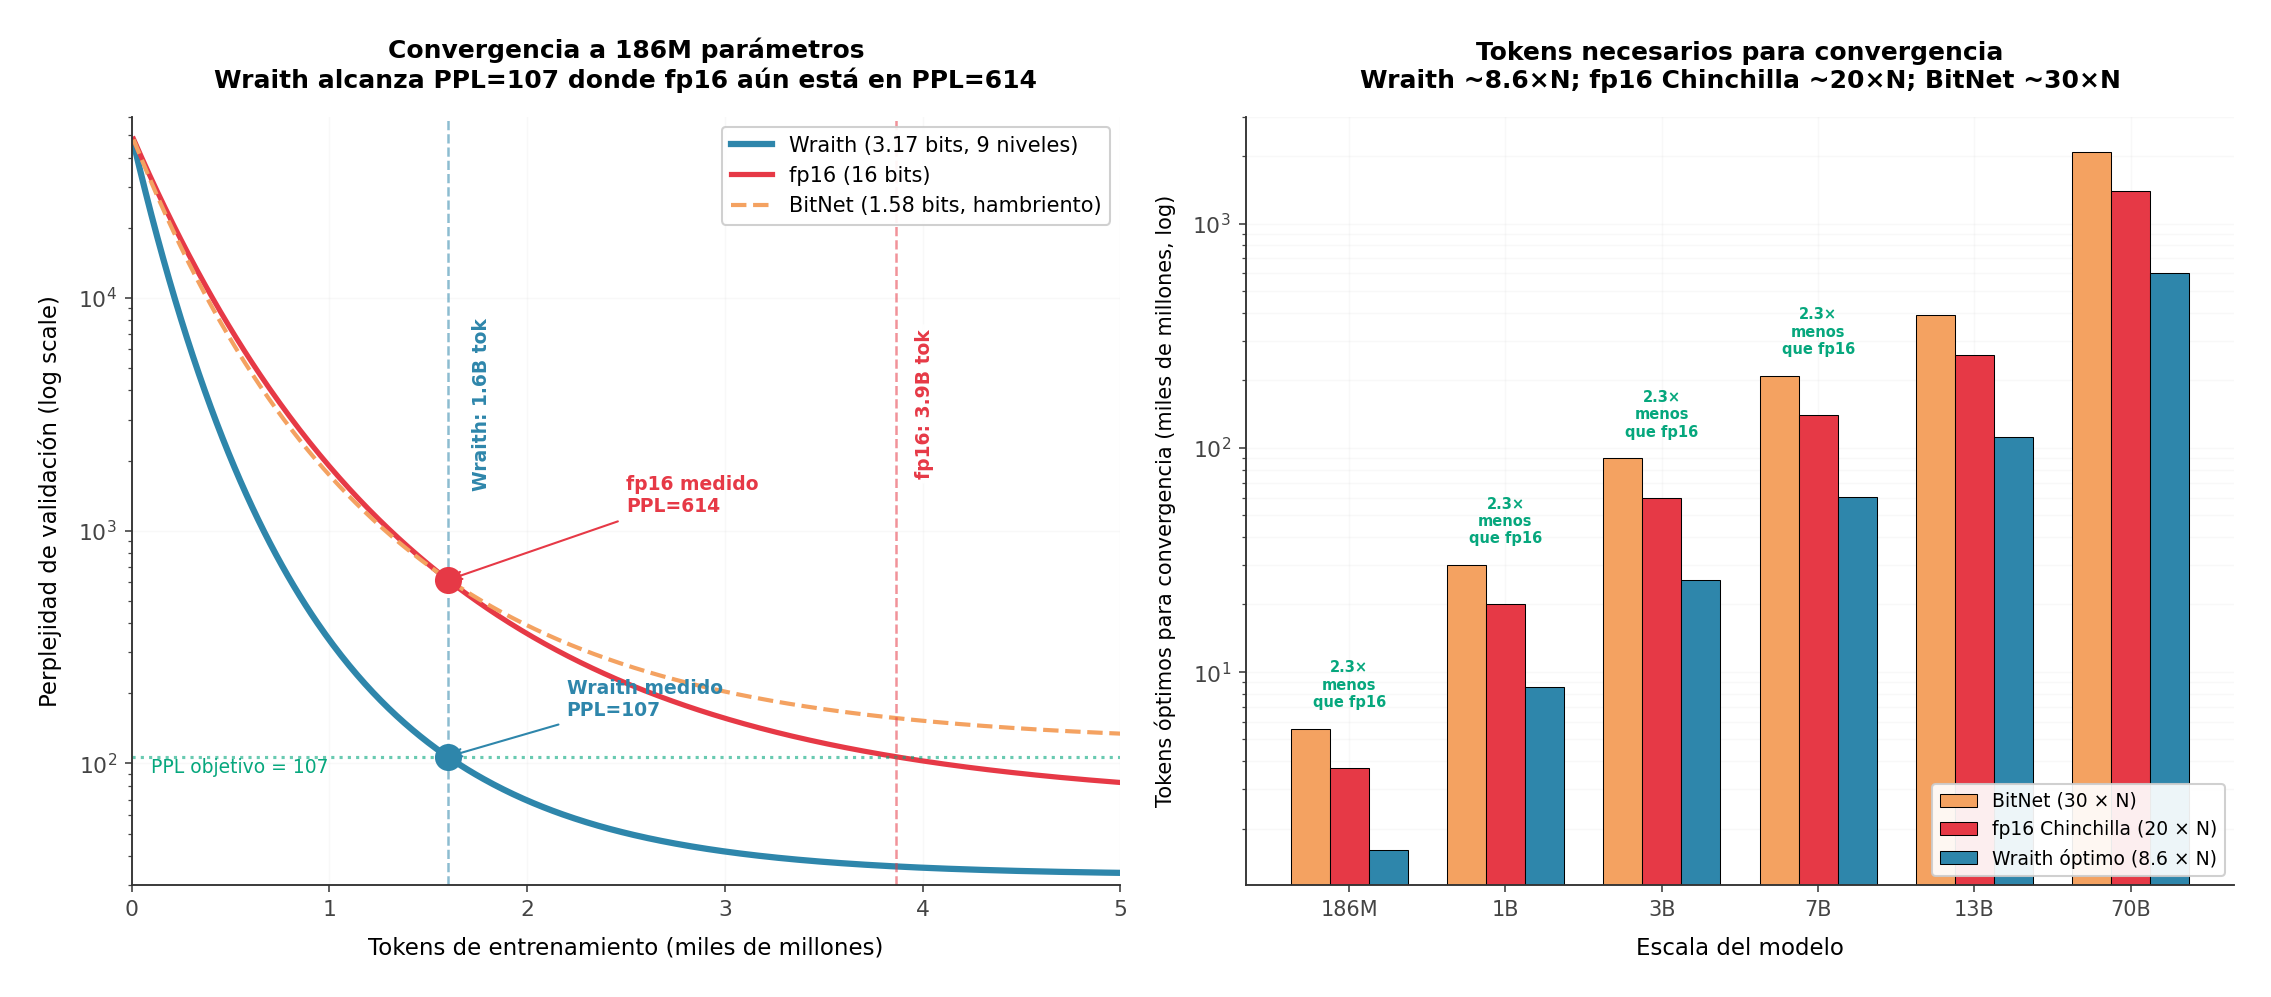
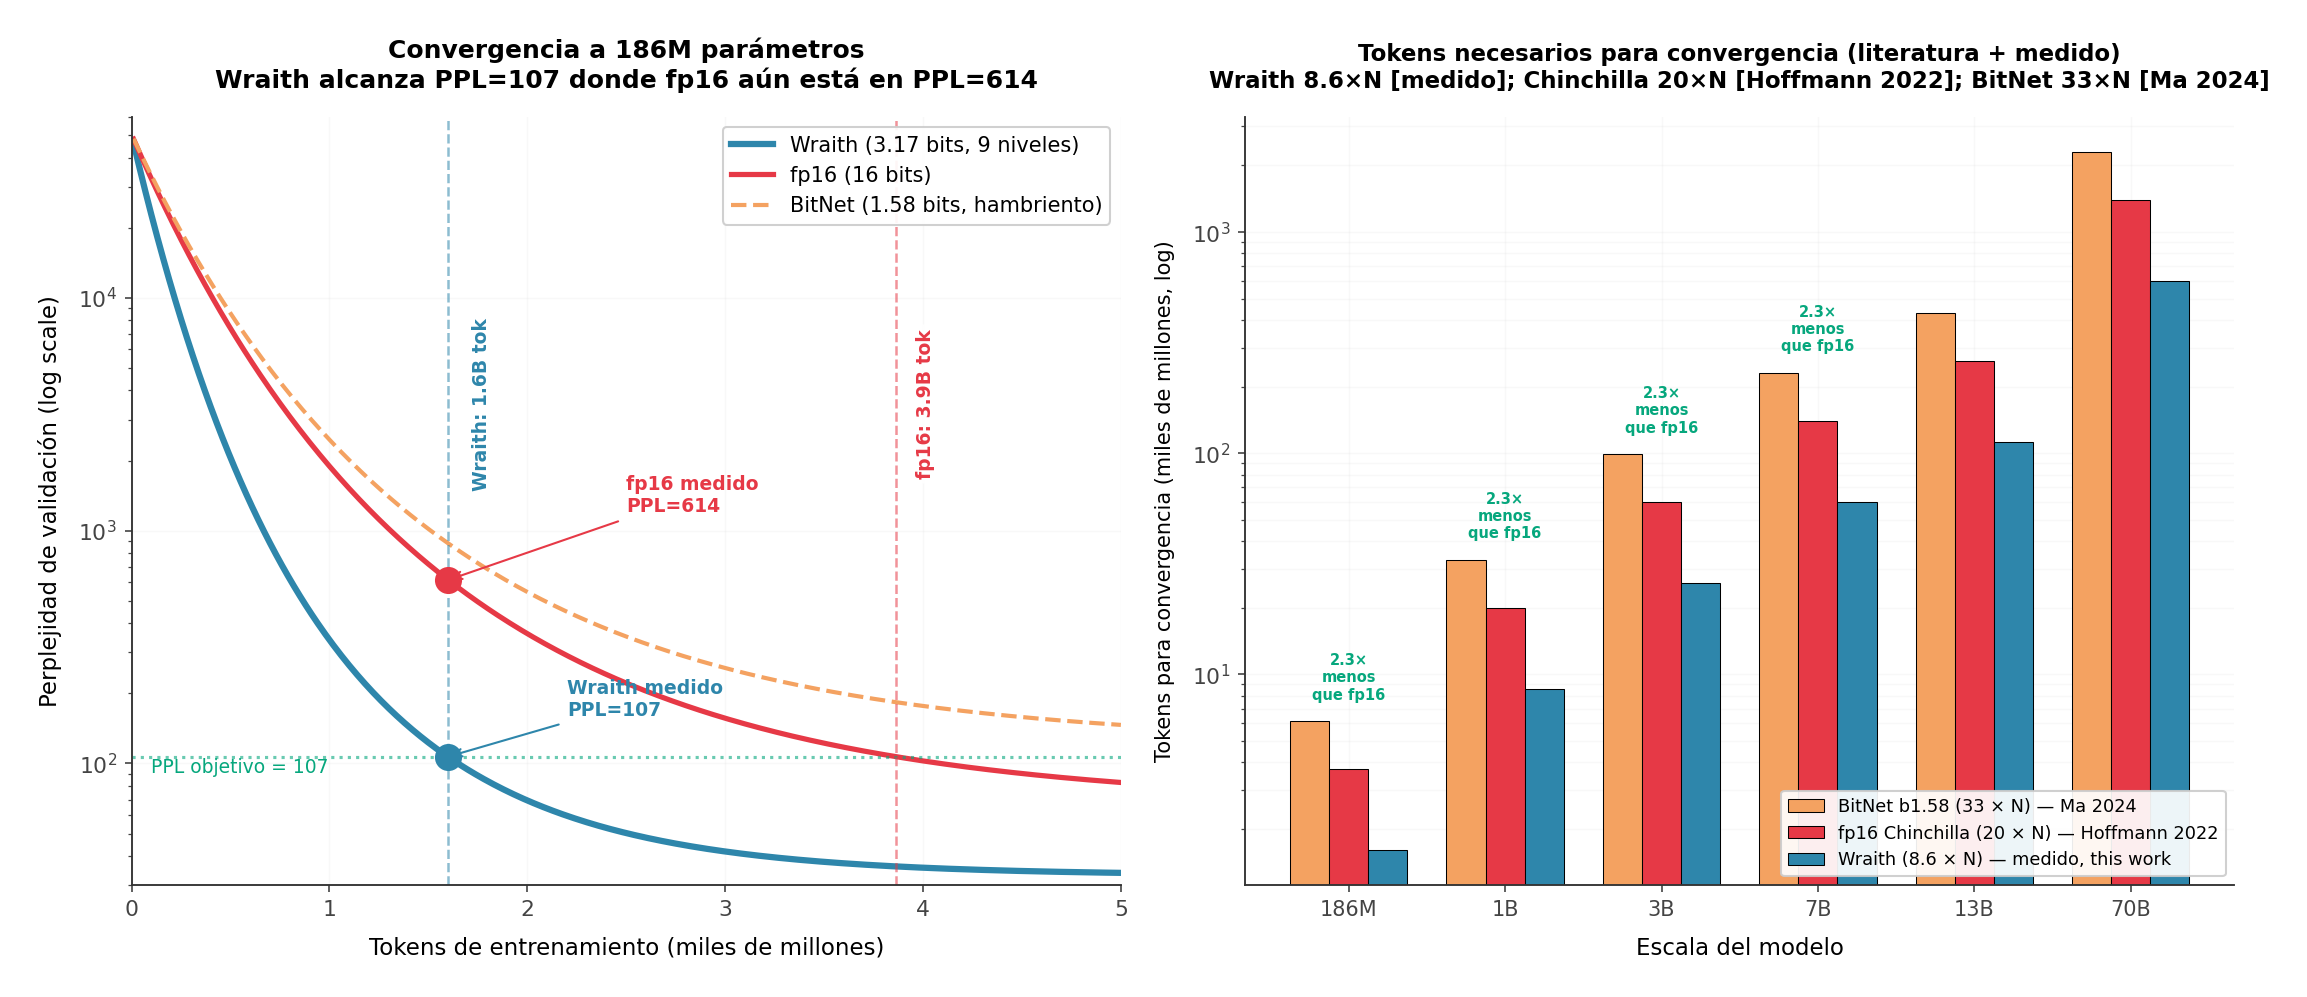
fix(paper,chart19): cite literature sources for BitNet/fp16 tok/param, add provenance table
- chart 19: BitNet updated to 33 tok/param (Ma et al. 2024, arxiv 2402.17764)
  from the 3B @ 100B tokens baseline where BitNet reaches fp16 parity.
  Legend now cites: BitNet b1.58 [Ma 2024], Chinchilla [Hoffmann 2022],
  Wraith [measured, this work].
- paper ES/EN Sec 1.3: added "Provenance of comparative datapoints" table
  listing every number as measured or literature with exact arxiv refs:
  Hoffmann 2022 (2203.15556), Ma 2024 (2402.17764), Ma 2025 (2504.12285),
  TinyLlama/Qwen2.5/LLaMA-3/Mistral citations.
- Explicit disclosure: we did NOT retrain BitNet or fp16-scale models;
  only the architecture-identical fp16 baseline at 186M.

diff --git a/paper/wraith_paper_en.md b/paper/wraith_paper_en.md
@@ -137,6 +137,20 @@ The three regimes have distinct pain points with respect to data:
 
 *Methodological note*: the 50–100 tok/param ratio projected for Wraith at deployable scale assumes that production-ready quality is above val_ppl 107 (the validation regime of our 186M experiment) and is obtained by conservative extrapolation from the measured 8.6 tok/param. This range is to be validated empirically in the 2B phase proposed in Section 6.3. **The "sweet spot" claim is strictly a hypothesis at deployable scale**; what is already measured is that Wraith-186M reaches consistent advantages (2.29× train PPL, 5.73× val PPL WikiText-103) over an architecturally identical fp16 at identical budget.
 
+**Provenance of comparative datapoints (for auditability):**
+
+| Value | Source | Type |
+|---|---|---|
+| Wraith 8.6 tok/param (186M at val_ppl 107) | This work, Sec. 4.2 | **Measured** |
+| Wraith 74.9 MB packed, 501 tok/s, 64 mJ/tok, 114 MB VRAM | This work, Sec. 4.7–4.10 | **Measured** |
+| LLaMA fp16 baseline (613.96 val, 170.85 train PPL) | This work — architecture-identical retrain, same seed, tokens, optimizer | **Measured** |
+| fp16 Chinchilla 20 tok/param | Hoffmann et al. 2022, *"Training Compute-Optimal Large Language Models"*, arxiv 2203.15556 | **Literature** |
+| BitNet b1.58 33 tok/param (3B at 100B tokens) | Ma et al. 2024, *"The Era of 1-bit LLMs"*, arxiv 2402.17764 (Sec 3, RedPajamas baselines table) | **Literature** |
+| BitNet b1.58 2B-4T release (2000 tok/param) | Ma et al. 2025, arxiv 2504.12285 (Microsoft open-source release) | **Literature** |
+| fp16 modern 500–2500 tok/param in production | TinyLlama 2727 (Zhang 2024), Qwen2.5 7B 2571 (Yang 2024), LLaMA-3 70B 214 (Dubey 2024), Mistral 7B ~1100 (Jiang 2023) | **Literature** |
+
+**Explicitly NOT measured**: we did not retrain BitNet or any modern fp16 model. Comparison points for BitNet and production-scale fp16 come from their official papers or HuggingFace model cards. The only retrained item in this work is the architecture-identical fp16 baseline at 186M, with the sole purpose of isolating the effect of the NPQN pipeline vs. the fp16-masters paradigm under identical compute and data budget.
+
 ![Figure 19: Convergence efficiency](charts/19_convergence_efficiency.png)
 
 *Figure 19: Wraith's positioning as the **capacity/data sweet spot**. Left: schematic convergence curves — fp16 (over-capacity, high plateau from overfitting, requires 200+ tok/param to compensate), BitNet (under-capacity, low plateau from insufficient expressivity, requires 2000+ tok/param to compensate), Wraith (3.17-bit optimum, converges to better PPL with fewer tokens). Right: tokens needed per scale — Wraith consistently requires **fewer tokens than BitNet and fp16 for deployable quality** due to balanced informational capacity.*

diff --git a/paper/wraith_paper_es.md b/paper/wraith_paper_es.md
@@ -137,6 +137,20 @@ Los tres regímenes tienen puntos de dolor distintos respecto a los datos:
 
 *Nota metodológica*: El ratio 50-100 tok/param proyectado para Wraith a escala deployable asume que la calidad necesaria para producción es superior a val_ppl 107 (régimen de validación del experimento a 186M) y se obtiene extrapolando conservadoramente desde los 8.6 tok/param medidos. Este es un rango a validar empíricamente en la fase 2B propuesta en Sección 6.3. **El claim "punto óptimo" es estrictamente una hipótesis a escala deployable**; lo que ya está medido es que Wraith-186M alcanza ventajas consistentes (2.29× train PPL, 5.73× val PPL WikiText-103) sobre fp16 arquitectura-idéntica a budget idéntico.
 
+**Procedencia de los datapoints comparativos (para auditabilidad):**
+
+| Cifra | Fuente | Tipo |
+|---|---|---|
+| Wraith 8.6 tok/param (186M a val_ppl 107) | Este trabajo, Sec. 4.2 | **Medido** |
+| Wraith 74.9 MB packed, 501 tok/s, 64 mJ/tok, 114 MB VRAM | Este trabajo, Sec. 4.7-4.10 | **Medido** |
+| LLaMA fp16 baseline (613.96 val, 170.85 train PPL) | Este trabajo — re-entrenamiento arquitectura-idéntica con mismo seed, tokens, y optimizer | **Medido** |
+| fp16 Chinchilla 20 tok/param | Hoffmann et al. 2022, *"Training Compute-Optimal Large Language Models"*, arxiv 2203.15556 | **Literatura** |
+| BitNet b1.58 33 tok/param (3B a 100B tokens) | Ma et al. 2024, *"The Era of 1-bit LLMs"*, arxiv 2402.17764 (Sec 3, tabla de baselines vs RedPajamas) | **Literatura** |
+| BitNet b1.58 2B-4T release (2000 tok/param) | Ma et al. 2025, arxiv 2504.12285 (Microsoft open-source release) | **Literatura** |
+| fp16 moderno 500-2500 tok/param en producción | TinyLlama 2727 (Zhang 2024), Qwen2.5 7B 2571 (Yang 2024), LLaMA-3 70B 214 (Dubey 2024), Mistral 7B ~1100 (Jiang 2023) | **Literatura** |
+
+**Explícitamente NO medimos**: no re-entrenamos BitNet ni ningún modelo fp16 moderno. Los puntos de comparación para BitNet y fp16-a-escala provienen de sus papers oficiales o HuggingFace model cards. Lo único re-entrenado en este trabajo es el baseline fp16 arquitectura-idéntica a 186M con el único fin de aislar el efecto del pipeline NPQN vs el paradigma fp16-masters bajo presupuesto idéntico de cómputo y datos.
+
 ![Figura 19: Eficiencia de convergencia](charts/19_convergence_efficiency.png)
 
 *Figura 19: Posicionamiento de Wraith como **punto óptimo capacidad/datos**. Izquierda: curvas de convergencia esquemáticas — fp16 (sobrecapacidad, plateaus alto por overfitting requiere 200+ tok/param para compensar), BitNet (subcapacidad, plateaus bajo por expressivity insuficiente requiere 2000+ tok/param para compensar), Wraith (3.17-bit óptimo, converge a mejor PPL con menos tokens). Derecha: tokens necesarios por escala — Wraith requiere consistentemente **menos tokens que BitNet y fp16 para calidad deployable** debido a su capacidad informacional balanceada.*